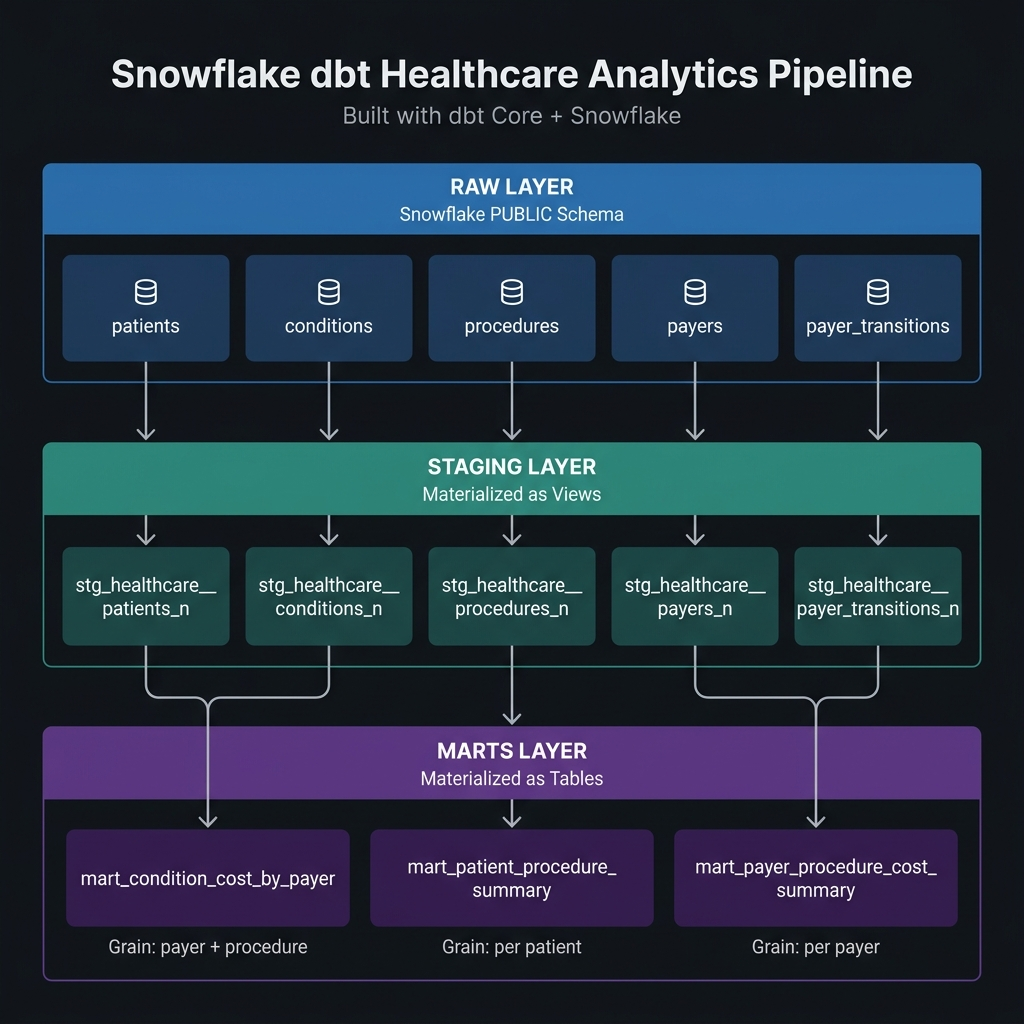
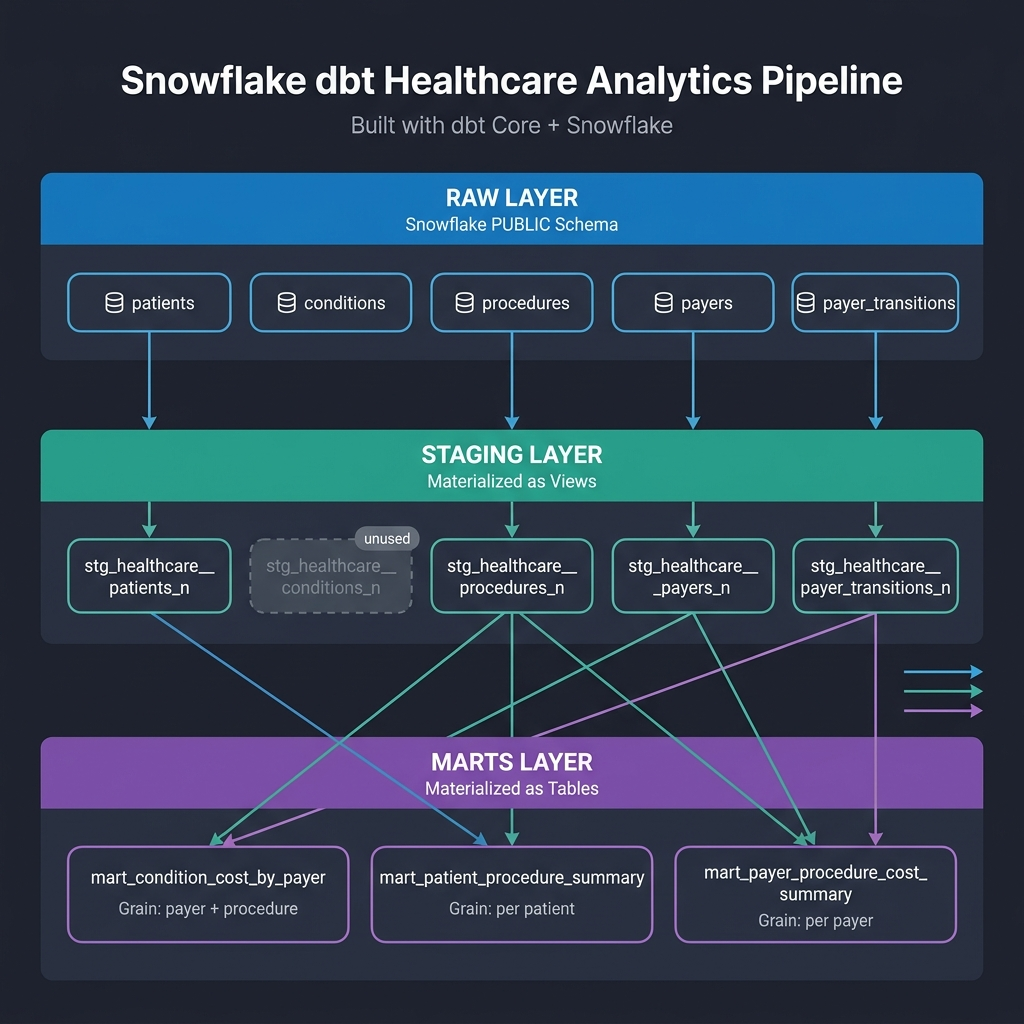
fix: correct architecture diagram to show actual data lineage
- Show accurate arrows from staging to marts based on real SQL refs
- Mark stg_healthcare__conditions_n as unused (no mart references it)
- Add Data Lineage table to README documenting staging dependencies
- stg_patients_n only feeds mart_patient_procedure_summary
- stg_procedures_n feeds all three marts
- stg_payers_n and stg_payer_transitions_n feed the two payer marts

diff --git a/README.md b/README.md
@@ -12,6 +12,16 @@ This repository contains a modern **dbt (Data Build Tool)** analytics engineerin
 
 The pipeline implements a clean, decoupled **three-layer architecture** across separate Snowflake schemas to guarantee data quality, maintainability, and performance.
 
+### Data Lineage
+
+| Mart Model | Staging Dependencies |
+| :--- | :--- |
+| `mart_condition_cost_by_payer` | `stg_procedures_n` → `stg_payer_transitions_n` → `stg_payers_n` |
+| `mart_patient_procedure_summary` | `stg_patients_n` → `stg_procedures_n` |
+| `mart_payer_procedure_cost_summary` | `stg_procedures_n` → `stg_payer_transitions_n` → `stg_payers_n` |
+
+> **Note:** `stg_healthcare__conditions_n` is staged but not yet consumed by any mart model. It is available for future analytics use cases (e.g., condition-based cohort analysis).
+
 | Layer | Schema | Materialization | Purpose |
 | :--- | :--- | :--- | :--- |
 | **Raw** | `PUBLIC` | Source Tables | Raw CSV data loaded into Snowflake |
